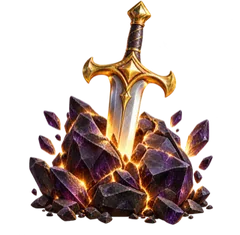
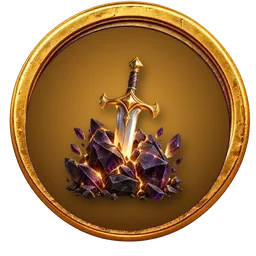
Profile update

diff --git a/js/ui/profile-game.js b/js/ui/profile-game.js
@@ -569,7 +569,64 @@ const BoohaProfileGame = (() => {
     }
   }
 
-  // Permanent Trophy Case. The trophies themselves (groups, art, rules,
+  // Extra Arcade (おまけ): Booha Bites, Echo and the Week Boss, kept apart
+  // from the nine. Their stars and points are weekly and never enter the
+  // ★ / 27 tally or the 9-game unlock. The boss opens once all nine have
+  // been played this week (same rule as the game menu).
+  const ARCADE_ICON = {
+    'booha-bites': '<svg viewBox="0 0 40 40" aria-hidden="true"><circle cx="20" cy="20" r="14" fill="none" stroke="currentColor" stroke-width="3"/><path d="M27 9a6 6 0 0 0 4 9 6 6 0 0 0 3 4" fill="none" stroke="currentColor" stroke-width="3" stroke-linecap="round"/><path d="M13 21h9" stroke="currentColor" stroke-width="3" stroke-linecap="round" stroke-dasharray="3 3"/></svg>',
+    echo: '<svg viewBox="0 0 40 40" aria-hidden="true"><path d="M8 16h6l8-6v20l-8-6H8z" fill="currentColor"/><path d="M27 14a8 8 0 0 1 0 12M31 10a13 13 0 0 1 0 20" fill="none" stroke="currentColor" stroke-width="3" stroke-linecap="round"/></svg>',
+  };
+  function arcadeWeek(curr) {
+    const cw = window.CALENDAR && CALENDAR.getCurrentCurriculumWeek ? CALENDAR.getCurrentCurriculumWeek() : null;
+    return cw && cw.monthSlug ? `${curr}_${String(cw.monthSlug).slice(0, 3)}_w${cw.weekNumber}` : '';
+  }
+  function renderArcade(s) {
+    const host = document.getElementById('pg-extras');
+    if (!host) return;
+    const R = window.BoohaGameRegistry;
+    const games = R && R.getExtraForCurriculum ? R.getExtraForCurriculum(s.curr) : [];
+    if (!games.length) { host.hidden = true; return; }
+    host.hidden = false;
+    const scores = window.BoohaAdventure && BoohaAdventure.scores;
+    const week = arcadeWeek(s.curr);
+    const call = (fn, id) => { try { return scores && typeof scores[fn] === 'function' ? scores[fn](id) : 0; } catch (_) { return 0; } };
+    let played = 0;
+    try { played = scores && scores.weeklyPlayedFor ? Math.min(9, scores.weeklyPlayedFor(s.curr) || 0) : 0; } catch (_) {}
+    const card = g => {
+      const stars = Math.max(0, Math.min(3, call('weeklyStarsForGame', g.saveId) || 0));
+      const pts = call('weeklyPointsForGame', g.saveId) || 0;
+      const crown = !!call('weeklyCrownForGame', g.saveId);
+      const open = !!week && (!g.boss || played >= 9);
+      const href = open ? `game.html?week=${encodeURIComponent(week)}&game=${encodeURIComponent(g.gameKey)}` : '';
+      const starRow = `<span class="pg-x-stars" aria-label="${stars} of 3 stars this week">${'★'.repeat(stars)}${'☆'.repeat(3 - stars)}</span>`;
+      const best = pts > 0 ? `<span class="pg-x-best">BEST ${pts.toLocaleString('en-US')}</span>` : '';
+      const tag = g.boss
+        ? (open ? (crown ? '<span class="pg-x-tag win">♛ たおした！ BEATEN</span>' : '<span class="pg-x-tag open">OPEN! ひらいた！</span>')
+                : `<span class="pg-x-tag lock">🔒 ${played} / 9 played · あと ${9 - played}</span>`)
+        : (crown ? '<span class="pg-x-tag win">♛</span>' : '');
+      const art = g.boss
+        ? `<img class="pg-x-boss" src="${IMG}arcade-week-boss.webp" alt="" width="72" height="80" loading="lazy" decoding="async">`
+        : `<span class="pg-x-icon">${ARCADE_ICON[g.gameKey] || ''}</span>`;
+      const inner = `${art}<span class="pg-x-copy"><b>${esc(g.name)}</b><span class="pg-x-hira">${esc(g.hira || '')}</span>${starRow}${best}${tag}</span>${open ? '<span class="pg-x-play" aria-hidden="true">▶</span>' : ''}`;
+      const cls = `pg-x-card${g.boss ? ' boss' : ''}${open ? '' : ' locked'}`;
+      const label = `${g.name}${open ? '' : g.boss ? ' (locked: play all 9 games first)' : ' (opens on this week’s page)'}`;
+      return open
+        ? `<a class="${cls}" href="${esc(href)}" aria-label="${esc(label)}">${inner}</a>`
+        : `<div class="${cls}" aria-disabled="true" aria-label="${esc(label)}">${inner}</div>`;
+    };
+    const small = games.filter(g => !g.boss);
+    const boss = games.filter(g => g.boss);
+    host.innerHTML = `
+      <div class="pg-section-head">
+        <div><h2>おまけ アーケード</h2><span class="pg-kicker">EXTRA ARCADE · ${esc(CURR_NAME[s.curr] || s.curr.toUpperCase())} · THIS WEEK</span></div>
+      </div>
+      <p class="pg-x-note">Bonus practice — these games do not change the 9-game unlock. <span>ボーナス れんしゅう — 9ゲームの じょうけんは かわらないよ</span></p>
+      <div class="pg-x-row">${small.map(card).join('')}</div>
+      ${boss.map(card).join('')}`;
+  }
+
+  // Adventure Tokens (the permanent Trophy Case). The tokens themselves (groups, art, rules,
   // tiers) live in js/core/trophy-case.js; this only draws what it returns.
   function trophyProgress(t) {
     if (t.dots) {
@@ -595,7 +652,7 @@ const BoohaProfileGame = (() => {
     const next = res.items.find(t => !t.on && !t.secret)
       || res.items.find(t => t.tiers && !t.maxed && !t.secret);
     host.innerHTML = `
-      <div class="rb-sec-head"><h3>トロフィーケース</h3><span class="rb-en">TROPHY CASE · ずっと のこる · ${res.earned} / ${res.shown}</span></div>
+      <div class="rb-sec-head"><h3>ぼうけん トークン</h3><span class="rb-en">ADVENTURE TOKENS · ずっと のこる · ${res.earned} / ${res.shown}</span></div>
       ${res.groups.map(g => `
         <div class="rb-tgroup rb-tg-${esc(g.id)}">
           <h4>${esc(g.jp)} <span>${esc(g.en)}</span></h4>
@@ -609,7 +666,7 @@ const BoohaProfileGame = (() => {
               </div>`).join('')}
           </div>
         </div>`).join('')}
-      ${next ? `<p class="rb-next">つぎの トロフィー: <b>${esc(next.jp)}</b> — ${esc(next.howJp || '')} <span>${esc(next.en)} · ${esc(next.how)}</span></p>` : ''}`;
+      ${next ? `<p class="rb-next">つぎの トークン: <b>${esc(next.jp)}</b> — ${esc(next.howJp || '')} <span>${esc(next.en)} · ${esc(next.how)}</span></p>` : ''}`;
   }
 
 
@@ -683,6 +740,7 @@ const BoohaProfileGame = (() => {
       [renderHero, 'pg-hero', 'Your adventure card'],
       [renderSkin, 'pg-skin', 'This week’s skin'],
       [renderTrail, 'pg-trail', 'This week’s trail'],
+      [renderArcade, 'pg-extras', 'Extra arcade'],
       [renderStars, 'pg-stars', 'This week’s stars'],
       [renderCollection, 'pg-collection', 'Wanderer collection'],
       [renderTravelers, 'pg-travelers', 'Travelers'],

diff --git a/profile.html b/profile.html
@@ -647,6 +647,37 @@
     .gr-best .sp { font-size:11px; color:#4a3a58; } .gr-best .sp.lit { color:#ffd77a; }
 
     /* trophy case */
+    /* Extra Arcade (おまけ) — launch cards for the three extra games, apart
+       from the nine-game trail. Rose = the Extra lane colour in games. */
+    .pg-x-note { margin:0 2px 10px; font-size:12px; line-height:1.45; color:#ffc2d1; }
+    .pg-x-note span { display:block; font-size:11px; color:#c99aa8; }
+    .pg-x-row { display:grid; grid-template-columns:1fr 1fr; gap:8px; margin-bottom:8px; }
+    .pg-x-card { position:relative; display:flex; align-items:center; gap:10px; padding:10px 12px; min-height:64px;
+      border-radius:16px; background:linear-gradient(160deg,#3a1624,#1f1020); border:1px solid rgba(255,111,145,.45);
+      color:#fff0f4; text-decoration:none; -webkit-tap-highlight-color:transparent; }
+    a.pg-x-card:active { transform:scale(.97); }
+    .pg-x-card.locked { border-color:rgba(255,111,145,.2); background:#1c1219; color:#b59aa4; }
+    .pg-x-icon { flex:0 0 38px; width:38px; height:38px; display:grid; place-items:center; border-radius:50%; background:#ff6f91; color:#2a0610; }
+    .pg-x-icon svg { width:26px; height:26px; }
+    .pg-x-copy { display:flex; flex-direction:column; min-width:0; gap:1px; }
+    .pg-x-copy b { font-size:14px; font-weight:900; line-height:1.2; }
+    .pg-x-hira { font-size:10px; color:#e9a9ba; line-height:1.3; }
+    .pg-x-stars { font-size:12px; letter-spacing:1px; color:#ffd77a; }
+    .pg-x-card.locked .pg-x-stars { color:#6b5560; }
+    .pg-x-best { font-size:10px; font-weight:800; color:#ffd77a; font-variant-numeric:tabular-nums; }
+    .pg-x-tag { align-self:flex-start; margin-top:2px; padding:1px 7px; border-radius:999px; font-size:10px; font-weight:800; }
+    .pg-x-tag.open { background:#ff6f91; color:#2a0610; }
+    .pg-x-tag.win { background:#ffd77a; color:#3a2600; }
+    .pg-x-tag.lock { background:rgba(255,255,255,.08); color:#d9bcc6; }
+    .pg-x-play { margin-left:auto; flex:0 0 30px; width:30px; height:30px; display:grid; place-items:center; border-radius:50%;
+      background:#ff6f91; color:#2a0610; font-size:12px; }
+    .pg-x-card.boss { min-height:96px; padding:12px 14px; background:radial-gradient(circle at 18% 50%,rgba(255,60,90,.35),transparent 55%),linear-gradient(160deg,#4a0f1e,#1a0a14); border-color:#ff6f91; }
+    .pg-x-card.boss .pg-x-copy b { font-size:17px; }
+    .pg-x-card.boss.locked { background:#1c1219; border-color:rgba(255,111,145,.25); }
+    .pg-x-boss { flex:0 0 72px; width:72px; height:80px; object-fit:contain; }
+    .pg-x-card.boss.locked .pg-x-boss { filter:grayscale(1) brightness(.45); }
+    @media (max-width:360px) { .pg-x-row { grid-template-columns:1fr; } }
+
     /* Trophy Case — grouped shelves; static styling only (no filters that
        animate, no per-card shadows on locked items) so it scrolls smoothly. */
     .rb-tgroup { margin:0 0 10px; }
@@ -848,6 +879,7 @@
     </section>
 
     <section class="pg-block" id="pg-trail" aria-label="This week's trail" aria-live="polite"></section>
+    <section class="pg-block pg-extras" id="pg-extras" aria-label="Extra arcade" hidden></section>
     <section class="pg-card pg-stars" id="pg-stars" aria-label="This week's stars"></section>
     <section class="pg-block" id="pg-medals" aria-label="Weekly medals"></section>
     <section class="pg-block" id="pg-collection" aria-label="Wanderer collection"></section>
@@ -892,7 +924,7 @@
       <div id="juku-report-log" role="region" aria-label="Juku reports"></div>
     </section>
 
-    <section class="rb-sec" id="pg-trophies" aria-label="Trophy case"></section>
+    <section class="rb-sec" id="pg-trophies" aria-label="Adventure tokens"></section>
   </section>
   </main>
 

diff --git a/sw.js b/sw.js
@@ -84,7 +84,10 @@ const CURRENT_CACHES = {
   // Trophy Case pass (2026-10-22): grouped, data-driven permanent trophies
   // (js/core/trophy-case.js), tier rings, progress, secret trophies, and
   // first-visit world recording for World Traveler.
-  pages:  'booha-pages-2026-486',
+  // Adventure Tokens + Extra Arcade (2026-10-22): round tokens, profile
+  // launch panel for Booha Bites / Echo / Week Boss; world pages load
+  // trophy-case.js for the first-visit record.
+  pages:  'booha-pages-2026-487',
   // JavaScript is served network-first with a cached fallback (see fetch
   // routing below), so connected pages pick up current scripts promptly.
   // Profile consolidation Pass 1: profile-progress.js is a new cache-first
@@ -259,7 +262,8 @@ const CURRENT_CACHES = {
   // Halloween six-week skin schedule, dynamic unlock copy, and landing-menu
   // Batty decoration pass (2026-09-23): invalidate cached shells/runtime.
   // Trophy Case pass: nine new medal WebPs and the new trophy stylesheet.
-  assets: 'booha-assets-2026-600',
+  // Round token art for the nine new tokens and the arcade boss thumbnail.
+  assets: 'booha-assets-2026-601',
   // Utsuroba episodes gained vocabulary (8 words per memory per level).
   decks:  'booha-decks-2026-315',
 };

diff --git a/js/core/adventure-core.js b/js/core/adventure-core.js
@@ -178,15 +178,12 @@ const BoohaAdventure = (() => {
       }
     });
 
-    // Trophy Case "World Traveler": note the first visit to each world page.
-    // One small write per world, ever; later visits read and return.
+    // Adventure Tokens "World Traveler": trophy-case.js owns the save write
+    // (recordWorldVisit); the four world pages load it, and this just says
+    // which world booted. It writes once per world, ever.
     try {
       const m = (location.pathname || '').match(/(muenba|grimmerglen|utsuroba|karasuki)\.html$/);
-      const S = getSystem('saveFile');
-      if (m && S) {
-        const visited = ((S.load() || {}).meta || {}).worldsVisited || {};
-        if (!visited[m[1]]) S.patchDeep('meta', 'worldsVisited', { [m[1]]: Date.now() });
-      }
+      if (m && window.BoohaTrophies && BoohaTrophies.recordWorldVisit) BoohaTrophies.recordWorldVisit(m[1]);
     } catch (_) {}
 
     window.BOOHA_READY = true;

diff --git a/utsuroba.html b/utsuroba.html
@@ -60,6 +60,7 @@ body::after {
 <script src="js/core/game-registry.js"></script>
 <script src="js/core/score-system.js"></script>
 <script src="js/core/unlock-system.js"></script>
+<script src="js/core/trophy-case.js"></script>
 <script src="js/core/page-state.js"></script>
 <script src="js/core/adventure-performance.js"></script>
 <script src="js/utsuroba-data.js"></script>

diff --git a/karasuki.html b/karasuki.html
@@ -45,6 +45,7 @@
 <script src="js/core/game-registry.js"></script>
 <script src="js/core/score-system.js"></script>
 <script src="js/core/unlock-system.js"></script>
+<script src="js/core/trophy-case.js"></script>
 <script src="js/core/page-state.js"></script>
 <script src="js/core/adventure-performance.js"></script>
 <script src="js/core/decoded-image-cache.js"></script>

diff --git a/grimmerglen.html b/grimmerglen.html
@@ -34,6 +34,7 @@
 <script src="js/core/game-registry.js"></script>
 <script src="js/core/score-system.js"></script>
 <script src="js/core/unlock-system.js"></script>
+<script src="js/core/trophy-case.js"></script>
 <script src="js/core/page-state.js"></script>
 <script src="js/core/adventure-performance.js"></script>
 <script src="js/utsu-card.js"></script>

diff --git a/muenba.html b/muenba.html
@@ -36,6 +36,7 @@
 <script src="js/core/game-registry.js"></script>
 <script src="js/core/score-system.js"></script>
 <script src="js/core/unlock-system.js"></script>
+<script src="js/core/trophy-case.js"></script>
 <script src="js/core/page-state.js"></script>
 <script src="js/core/adventure-performance.js"></script>
 <script src="js/utsu-sfx.js"></script>

diff --git a/PERFORMANCE-BUDGETS.md b/PERFORMANCE-BUDGETS.md
@@ -9,7 +9,7 @@ These are enforceable file/cache limits or runtime targets, not claims about eve
 | Maximum deployed image file | 700 KiB (2 MiB only for explicit lossless allowlist) |
 | Maximum decoded room neighborhood cache | current room + direct exits |
 | Maximum decoded Wanderer cache | 48 MiB |
-| Maximum deployed image payload | 52 MiB (all rasters under assets/img; unreferenced PNG source originals excluded) |
+| Maximum deployed image payload | 52 MiB (every raster under assets/img counts) |
 | Profile medal / trophy art | 48 KiB and 256 px per file |
 | Profile, Blitz, Menu image directories | 1.6 / 1.4 / 0.5 MiB |
 | Lossless WebP policy | explicit allowlist only; all other deployed WebP images must be lossy |
@@ -56,9 +56,10 @@ or tablet when one is available.
 ## Trophy Case pass (2026-10-22)
 
 The global image total moved from 50 MiB to 52 MiB, and it now counts every
-PNG/JPG/GIF under `assets/img`, not only WebP. Ten PNG source originals that
-have WebP twins are excluded, but the audit fails if anything in the app
-starts referencing them, so no device downloads them.
+PNG/JPG/GIF under `assets/img`, not only WebP. The ten unreferenced PNG
+source originals (13 MB, all with WebP twins) were deleted from the repo; the
+only remaining non-WebP raster is the 70 KB Juku logo, allowlisted with its
+own ceiling.
 
 The total is not what makes the app smooth. Frame time and memory come from
 the per-file ceilings (700 KiB, 48 KiB for medals), per-directory budgets,
